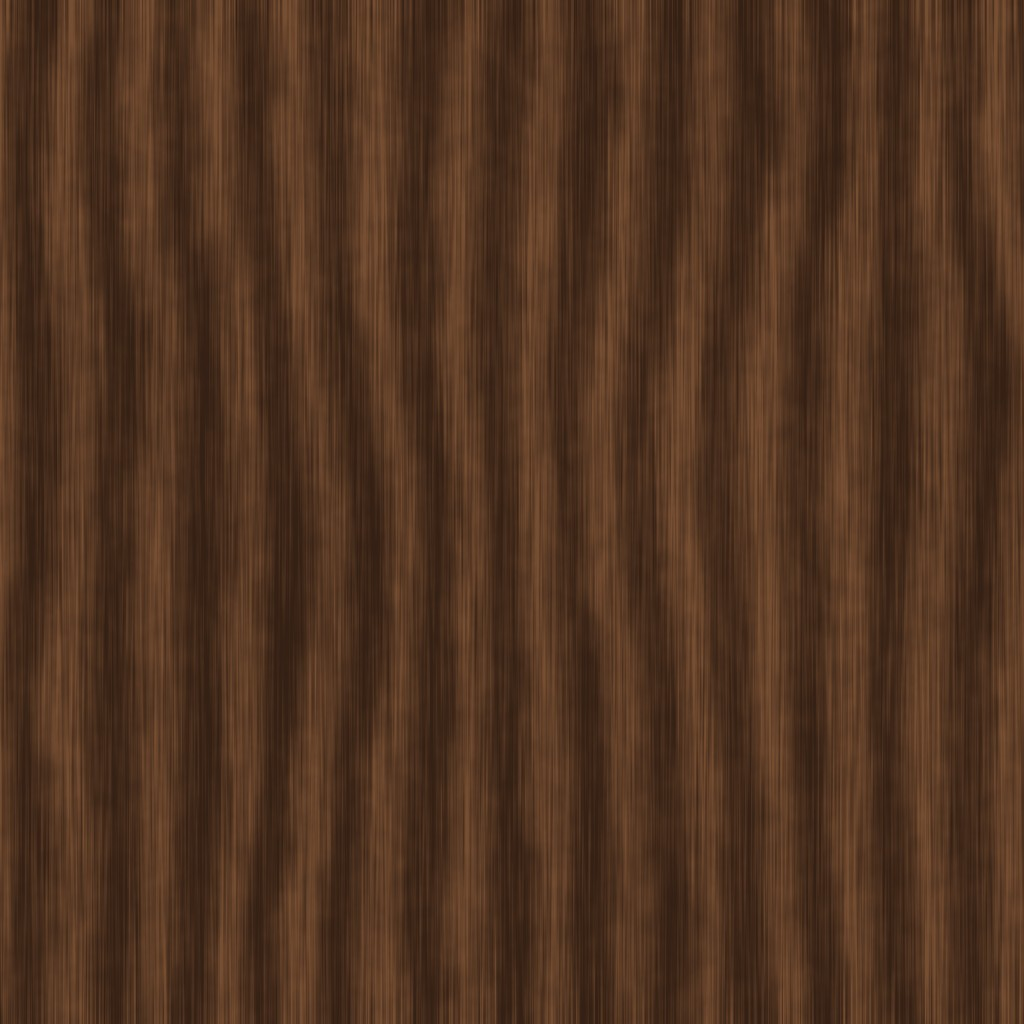
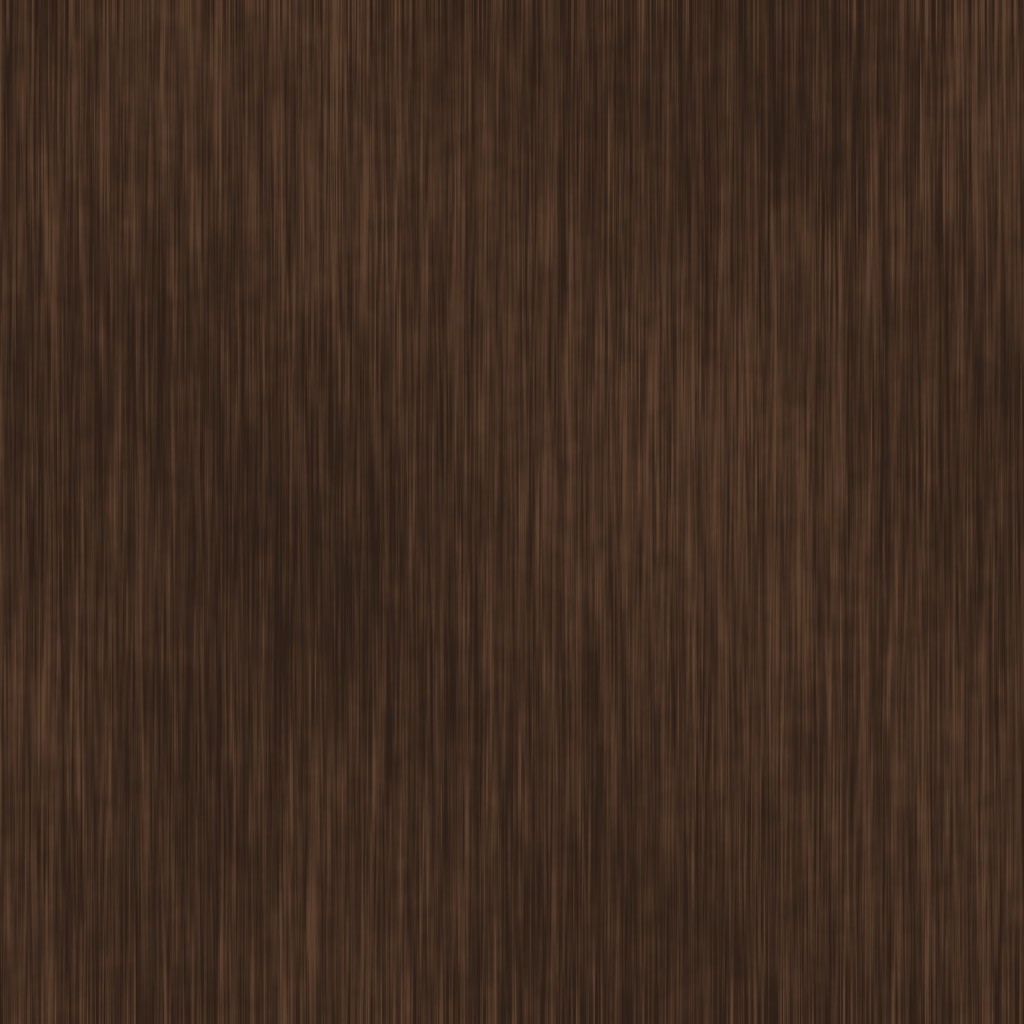
Penderie : noyer plus naturel, cintre caché dans le vêtement
Claude-Session: https://claude.ai/code/session_01KHRUw9ukAw3hT8QNczf4zX

diff --git a/Dressing/WardrobeScene.swift b/Dressing/WardrobeScene.swift
@@ -240,7 +240,7 @@ final class WardrobeScene {
 
     private func buildCarcass() {
         let wood = { (u: Float, v: Float) -> SCNMaterial in
-            let m = Self.pbr("wood_albedo.jpg", normal: "wood_normal.png", roughness: 0.45, repeatU: u * 2, repeatV: v * 2)
+            let m = Self.pbr("wood_albedo.jpg", normal: "wood_normal.png", roughness: 0.45, repeatU: u, repeatV: v)
             m.normal.intensity = 0.35
             return m
         }
@@ -357,7 +357,7 @@ final class WardrobeScene {
         let geo = Self.cloth(width: w, height: h, seed: Float(abs(item.id.hashValue % 1000)) / 100)
         geo.firstMaterial = Self.fabric(img)
         let node = SCNNode(geometry: geo)
-        node.position = SCNVector3(0, -0.075, 0)
+        node.position = SCNVector3(0, -0.045, 0)
         node.castsShadow = true
         return node
     }
@@ -444,7 +444,7 @@ final class WardrobeScene {
             arm.firstMaterial = woodMat
             let a = SCNNode(geometry: arm)
             a.eulerAngles.z = side * (.pi / 2 - 0.3)
-            a.position = SCNVector3(side * 0.115, -0.07, 0.004)
+            a.position = SCNVector3(side * 0.115, -0.07, -0.012)
             n.addChildNode(a)
         }
         let metal = Self.pbr(nil, normal: nil, roughness: 0.2, color: UIColor(white: 0.8, alpha: 1), metalness: 1)

diff --git a/tools/textures.py b/tools/textures.py
@@ -36,12 +36,12 @@ S = 1024
 n = fbm(S, S, 6, 3, 1)
 Y, X = np.mgrid[0:S, 0:S] / S
 warp = gaussian_filter(rng.standard_normal((S, S)), 40) * 18
-rings = np.sin((X * 26 + n * 1.4 + warp * 0.12) * np.pi)
+rings = np.sin((X * 70 + n * 2.0 + warp * 0.08) * np.pi)
 grain = 0.5 + 0.5 * rings
 fine = fbm(S, S, 3, 64, 2)
 streak = gaussian_filter(rng.random((S, S)), (30, 0.6))
-t = np.clip(grain * 0.55 + fine * 0.2 + (streak - streak.mean()) * 6 + n * 0.25, 0, 1)
-dark = np.array([52, 32, 20]); light = np.array([118, 78, 50])
+t = np.clip(grain * 0.22 + fine * 0.25 + (streak - streak.mean()) * 9 + n * 0.45, 0, 1)
+dark = np.array([46, 32, 24]); light = np.array([92, 64, 46])
 wood = dark + (light - dark) * t[..., None] ** 1.3
 save(Image.fromarray(wood.astype(np.uint8)), "wood_albedo.jpg")
 save(normal_from_height(gaussian_filter(t, 1.2), 3.0), "wood_normal.png")
